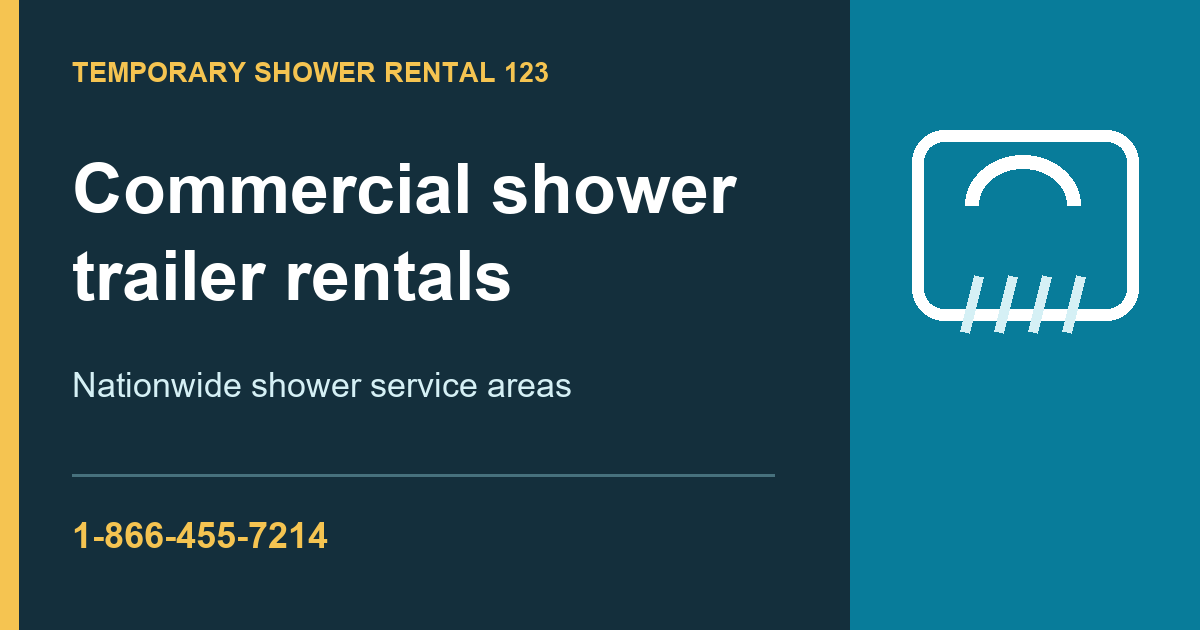
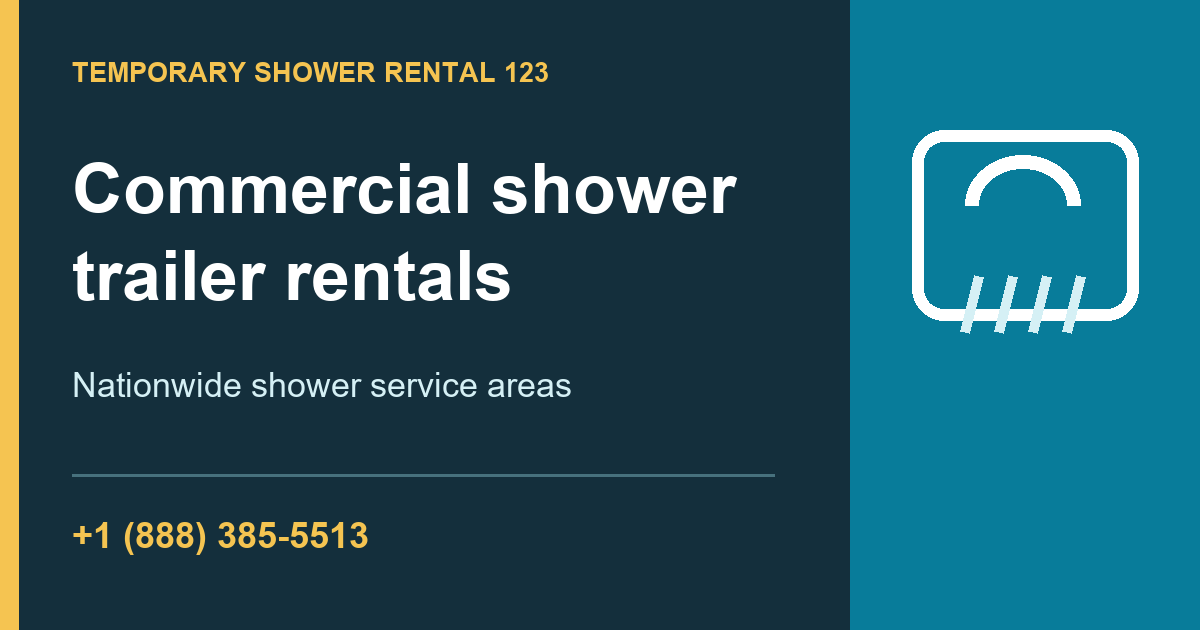
Restore pre-Pomona phone and scope footer name

Changed region(s): [[0.0617, 0.8143, 0.3083, 0.8746]]

diff --git a/src/Site.tsx b/src/Site.tsx
@@ -486,11 +486,9 @@ export function Footer({ showClosing = true, path = "" }: { showClosing?: boolea
           </nav>
           <nav className="footer-nav" aria-label="Get in touch">
             <strong>Get in touch</strong>
-            <a href={"tel:" + site.phoneE164}>{site.phoneDisplay}</a>
-            <address className="footer-contact-address">
-              {site.address.streetAddress}<br />
-              {site.address.addressLocality}, {site.address.addressRegion} {site.address.postalCode}
-            </address>
+            {path !== kellerLocation.path && (
+              <span className="footer-contact-name">{site.generalFooterBusinessName}</span>
+            )}
             <a href="/contact-us/">Contact Us</a>
             <a href="/planning/">Project Planning</a>
             <a href="/privacy/">Privacy</a>
@@ -546,11 +544,6 @@ export function Site({
                 {site.phoneDisplay} ↗
               </a>
               <p>Specialist support available 24/7.</p>
-              <address className="contact-address">
-                <strong>{site.contactBusinessName}</strong><br />
-                {site.address.streetAddress}<br />
-                {site.address.addressLocality}, {site.address.addressRegion} {site.address.postalCode}
-              </address>
             </div>
             <div>
               <div className="contact-call">

diff --git a/src/content.ts b/src/content.ts
@@ -71,15 +71,13 @@ const descriptions: Record<string, string> = {
   "/404/":
     "The requested page could not be found. Browse the temporary facility rental inventory or return to the home page.",
   "/contact-us/":
-    `Call ${site.contactBusinessName} at ${site.phoneDisplay}, available 24/7. Find us at ${site.address.streetAddress}, ${site.address.addressLocality}, ${site.address.addressRegion} ${site.address.postalCode}. Discuss rental dates, access and utility requirements.`,
+    `Call Temporary Shower Rental 123 at ${site.phoneDisplay}, available 24/7. Discuss your location, occupancy, rental dates, access and utility requirements.`,
   "/privacy/":
     "Read how the Temporary Shower Rental 123 website handles visitor information and contact the team with questions about your information.",
 };
 export function pageInfo(path: string) {
   return {
-    title: path === "/contact-us/"
-      ? `Contact Us | ${site.contactBusinessName}`
-      : `${titles[path] || "Page not found"} | ${site.brand}`,
+    title: `${titles[path] || "Page not found"} | ${site.brand}`,
     description: removeBrandNumber(
       descriptions[path] ||
       `Find the right temporary shower or restroom facility for your project. Explore ${site.brand} equipment or call ${site.phoneDisplay} for help.`,

diff --git a/tests/browser/site.spec.ts b/tests/browser/site.spec.ts
@@ -399,6 +399,21 @@ test("Contact Us sticky drawer keeps the consent text neutral after opening", as
   await expect(consent).not.toContainText(/(?:Mobile|Temporary) Shower (?:Trailer )?Rental 123/i);
 });
 
+test("main and Keller pages keep their separate contact numbers and footers", async ({ page }) => {
+  await page.setViewportSize({ width: 1280, height: 900 });
+  await page.goto("/");
+  await expect(page.locator(".header-contact")).toHaveAttribute("href", "tel:+18883855513");
+  await expect(page.locator(".site-footer .footer-contact-name")).toHaveText("Commercial Emergency Shower Rental International");
+  await page.locator(".contact-rail").click();
+  await expect(page.locator(".contact-drawer-actions a[href='tel:+18883855513']")).toBeVisible();
+
+  await page.goto("/service-areas/texas/north-texas/keller/");
+  await expect(page.locator(".header-contact")).toHaveAttribute("href", "tel:+19725446598");
+  await expect(page.locator(".site-footer .footer-contact-name")).toHaveCount(0);
+  await page.locator(".contact-rail").click();
+  await expect(page.locator(".contact-drawer-actions a[href='tel:+19725446598']")).toBeVisible();
+});
+
 test("mobile Contact Us tab opens the drawer without navigating", async ({
   page,
 }) => {

diff --git a/scripts/structured-data.ts b/scripts/structured-data.ts
@@ -45,11 +45,6 @@ export function pageSchema(input: {
       name: site.brand,
       url: `${origin}/`,
       telephone: site.phoneE164,
-      address: {
-        "@type": "PostalAddress",
-        ...site.address,
-        addressCountry: "US",
-      },
       logo: `${origin}/images/temporary123-logo.png`,
       areaServed: { "@type": "Country", name: "United States" },
       contactPoint: {

diff --git a/src/modern.css b/src/modern.css
@@ -217,11 +217,11 @@ p {
   min-height: 40px;
   color: #fff;
 }
-.site-footer .footer-contact-address {
+.site-footer .footer-contact-name {
+  display: block;
   margin-block: 0.35rem 0.6rem;
   color: #cfdee3;
   font-size: 0.82rem;
-  font-style: normal;
   line-height: 1.5;
 }
 .site-footer .footer a:hover {

diff --git a/scripts/create-shower-social-card.py b/scripts/create-shower-social-card.py
@@ -1,10 +1,12 @@
 """Generate the shower-only 1200 x 630 social preview."""
 
 from pathlib import Path
+import json
 from PIL import Image, ImageDraw, ImageFont
 
 ROOT = Path(__file__).resolve().parents[1]
 OUT = ROOT / "public" / "shower-social-card.png"
+SITE = json.loads((ROOT / "site.json").read_text(encoding="utf-8"))
 FONT = Path("C:/Windows/Fonts/arial.ttf")
 BOLD = Path("C:/Windows/Fonts/arialbd.ttf")
 
@@ -22,6 +24,6 @@ draw.text((72, 149), "Commercial shower", font=ImageFont.truetype(BOLD, 70), fil
 draw.text((72, 236), "trailer rentals", font=ImageFont.truetype(BOLD, 70), fill="white")
 draw.text((72, 366), "Nationwide shower service areas", font=ImageFont.truetype(FONT, 34), fill="#d5f0f5")
 draw.line((72, 475, 774, 475), fill="#47717d", width=3)
-draw.text((72, 515), "1-866-455-7214", font=ImageFont.truetype(BOLD, 36), fill="#f5c451")
+draw.text((72, 515), SITE["phoneDisplay"], font=ImageFont.truetype(BOLD, 36), fill="#f5c451")
 image.save(OUT, optimize=True)
 print(OUT)

diff --git a/PROJECT_STATUS.md b/PROJECT_STATUS.md
@@ -1,5 +1,7 @@
 # Temporary123 Project Status
 
+**2026-10-10 Main contact rollback and footer scope — LOCAL VERIFIED; RELEASE PENDING:** The owner clarified that the intended pre-Pomona version uses `+1 (888) 385-5513`, no address in the general Organization schema, and no street address in the footer. General-page footers show only `Commercial Emergency Shower Rental International` as their contact identity; Keller omits that label and retains its local 972 phone and Keller-specific schema. The Pomona address is removed from Contact Us and its metadata, and the shower social card uses the restored 888 number. TypeScript/Vite/prerender passed (755 pages plus 404). The focused Keller/contact check, a 756-HTML-page scan (754 general footers, one Keller footer, 754 Organization schemas), and a browser test of both opened contact drawers passed. Release verification is pending. Existing unrelated audit/EOD/archive files remain untouched. See `docs/TEST_RESULTS.md`.
+
 **2026-10-09 Restore prior footer, phone format and general schema — DEPLOYED AND LIVE VERIFIED:** The owner requested the repository version from before the Pomona contact-line update. The shared footer again separates the `1-866-455-7214` phone link from the two-line `11012 Kadota Ave Unit 9, Pomona, CA 91766` address. The same address casing feeds the general Organization schema. The Keller page, local phone and Keller-specific schema remain at the deployed version, including the restored map. The neutral sticky contact drawer wording also remains. TypeScript/Vite/prerender passed for 755 pages plus 404; the focused rendered Keller, homepage, Contact Us, footer and Organization-schema check passed. Commit `ac9a473` was pushed to the official GitHub branch, deployed from a clean checkout as READY Vercel deployment `dpl_9sX2YAWyPyLKiicJSP7wzRXpBZqC`, and promoted to `https://temporary-shower-rental.com`. Live homepage, Contact Us and Keller checks passed; Vercel resolves the domain to that deployment. Unrelated audit/EOD/archive files remain untouched. See `docs/TEST_RESULTS.md`.
 
 **2026-10-09 Footer and Keller address cleanup — DEPLOYED AND LIVE VERIFIED:** The shared footer now displays `Commercial Emergency Shower Rental International · 11012 Kadota Ave unit 9, Pomona, CA 91766 · (866) 455-7214`. Contact Us uses the owner-supplied contact business name in its page title, visible address, project desk and form consent. The Keller page no longer displays the Keller street address or address-linked map, and its structured data omits the Keller address and map. The route, local phone and other Keller content remain. Production build/prerender generated 755 pages plus 404; the focused Keller/contact check passed; all 754 rendered pages with a shared footer matched the exact new line, and no rendered HTML contained the Keller street address. Application tests passed 60/62 in the first concurrent run; two unrelated timeout cases passed when rerun alone (13/13 in their two files). Source commit `9edf3a7` was pushed to the official GitHub branch, deployed from a clean checkout as READY Vercel production deployment `dpl_9bgG1D2FL9pdqPYJjkGdYE6Bs2fA`, then promoted to `https://temporary-shower-rental.com`. Live homepage, Contact Us and Keller pages returned HTTP 200 with the expected contact identity and no Keller street address; Vercel resolved the domain to the same deployment. Unrelated audit/EOD/archive files remain untouched. See `docs/TEST_RESULTS.md`.

diff --git a/docs/PAGE_ASSIGNMENTS.md b/docs/PAGE_ASSIGNMENTS.md
@@ -1,5 +1,7 @@
 # Page and File Assignments
 
+**2026-10-10 Main contact rollback and footer scope — LOCAL VERIFIED; RELEASE PENDING, `/root`:** Restored the pre-Pomona main number `+1 (888) 385-5513`, removed the Pomona address from general content and Organization schema, and returned the shared footer to its earlier contact-link layout. Added only `Commercial Emergency Shower Rental International` as a footer label on non-Keller pages. Keller's local 972 contact and Keller-specific schema remain. The shower social card phone, focused rendered checks and browser test were updated. Build, 756-page rendered scan, focused Keller/contact check and browser contact test passed; release verification is pending. Existing audit/EOD/archive working files are excluded.
+
 **2026-10-09 Prior footer and general schema restoration — DEPLOYED AND LIVE VERIFIED, `/root`:** Restored the pre-update footer markup in `src/Site.tsx`, removed its extra link styling from `src/modern.css`, and restored the address casing and original 866 display format in `site.json`. Updated the focused rendered check. The Keller source and map remain unchanged; the generic area-map experiment was discarded. The production build and focused rendered check passed. Source commit `ac9a473` was pushed to the official GitHub branch and deployed as `dpl_9sX2YAWyPyLKiicJSP7wzRXpBZqC`; the canonical domain resolves to that READY deployment and the live homepage, Contact Us and Keller checks passed. See `docs/TEST_RESULTS.md`.
 
 **2026-10-09 Footer, Contact Us and Keller address cleanup — DEPLOYED AND LIVE VERIFIED, `/root`:** Updated the shared footer to the exact owner-supplied Commercial Emergency Shower Rental International Pomona line; Contact Us now uses that name in page-specific title, address, project desk and form consent. Removed the Keller street address, address-linked map and structured-data address/map while preserving its route and local phone. Build/prerender passed; the focused Keller/contact check and 754-footer rendered scan passed; all 62 application tests passed across the first run and isolated timeout rerun. Source commit `9edf3a7` was pushed to the official branch and promoted as Vercel deployment `dpl_9bgG1D2FL9pdqPYJjkGdYE6Bs2fA`. Live homepage, Contact Us and Keller pages passed; Vercel resolved the canonical domain to that READY deployment. Unrelated audit/EOD/archive files remain untouched. See `docs/TEST_RESULTS.md`.

diff --git a/docs/TEST_RESULTS.md b/docs/TEST_RESULTS.md
@@ -1,5 +1,14 @@
 # Temporary123 Test Results
 
+## Main contact rollback and footer scope — 2026-10-10 (LOCAL VERIFIED; RELEASE PENDING)
+
+- Git reference: commit `3df39f3` before the Pomona contact update used `+1 (888) 385-5513`; its general Organization schema had no address and its footer had no phone/address block. Owner confirmed this version and requested `Commercial Emergency Shower Rental International` only as a general-page footer name.
+- Source changes restore that phone and schema shape, remove Pomona from Contact Us and its metadata, keep Keller's local 972 content, and update the shower social card.
+- `npm run build`: PASS. TypeScript, Vite and production prerender generated 755 pages plus 404.
+- `node scripts/check-keller-location.mjs`: PASS for the rendered homepage, Contact Us and Keller contact details and schema.
+- `node scripts/check-contact-rollback.mjs`: PASS across 756 HTML files; 754 general footers have the requested name, Keller's footer omits it, and 754 Organization schemas use the 888 number with no address. No generated HTML retained the old 866 number or Kadota address.
+- Focused Playwright test: PASS (1/1) after opening the homepage and Keller contact drawers in an isolated local preview. The shower social card was regenerated from `site.json` and visually checked with the 888 number. Production release verification is pending.
+
 ## Prior footer, phone format and general schema — 2026-10-09 (PRODUCTION LIVE VERIFIED)
 
 - Restored the exact pre-update shared footer structure: a separate `1-866-455-7214` link followed by `11012 Kadota Ave Unit 9` and `Pomona, CA 91766` on two lines. Restored the matching general Organization schema address value and removed the newer footer-only link styling.

diff --git a/docs/DECISIONS.md b/docs/DECISIONS.md
@@ -1,5 +1,9 @@
 # Temporary123 Decision Log
 
+## 2026-10-10 — Restore the pre-Pomona main phone and schema
+
+The owner clarified that the prior rollback kept the wrong version. Restore the earlier main phone `+1 (888) 385-5513` and remove the Pomona address from general content and Organization structured data. The earlier footer had no phone or address; add the exact name `Commercial Emergency Shower Rental International` there only on non-Keller pages. Keller retains its separate 972 phone and current local schema, map and page content. Keep the shared sticky contact drawer's neutral consent wording.
+
 ## 2026-10-09 — Restore the previous shared footer and general schema
 
 The owner requested the repository version from before the contact-line update for the shared footer, phone display and schema, while leaving the Keller page as deployed. Restore the earlier separate `1-866-455-7214` footer link and two-line Pomona address with `Unit 9` capitalization. The general Organization schema derives the same previous address from `site.json`. Keep the current Keller page, map, local 972 phone and Keller-specific LocalBusiness schema. Keep the neutral sticky drawer copy already released. The proposed Keller-area map experiment was not released.
